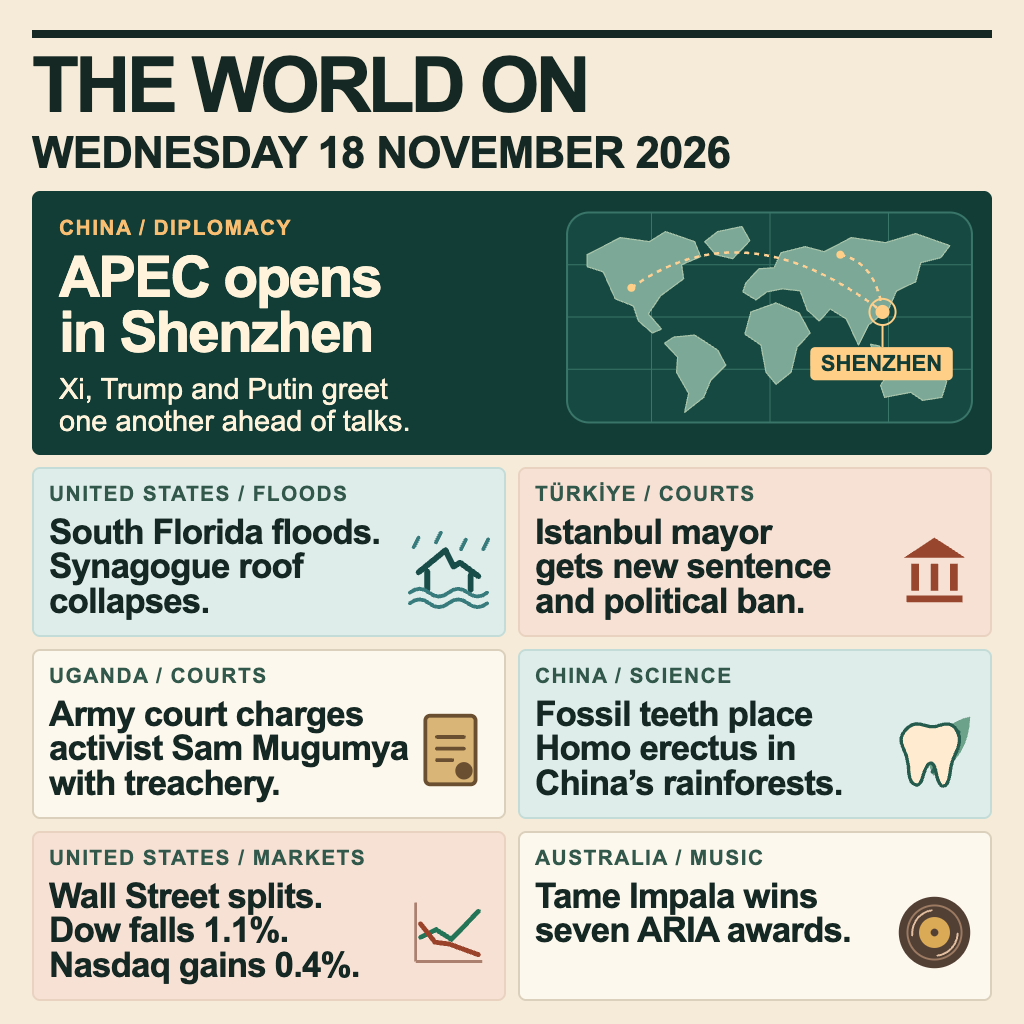
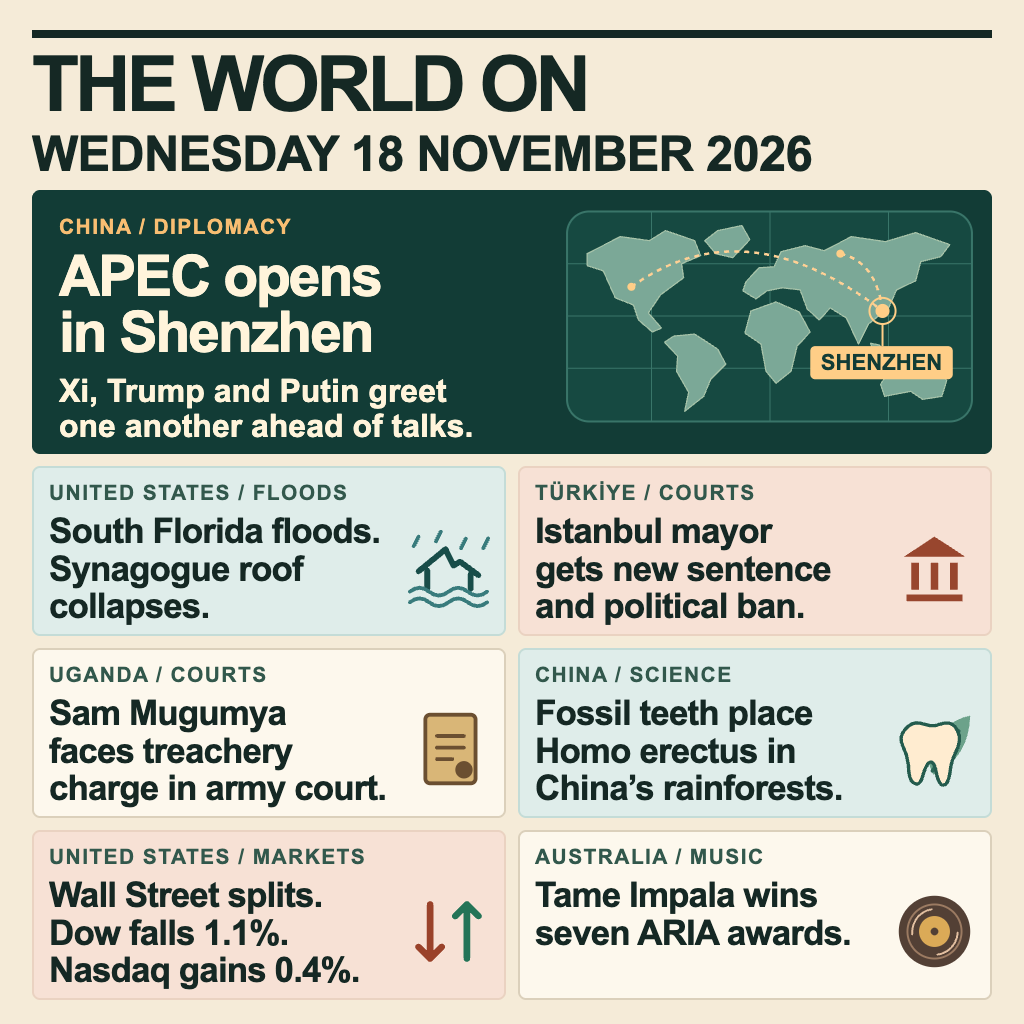
Improve thumbnail legibility and declare MIT license

diff --git a/design/index.html b/design/index.html
@@ -6,19 +6,19 @@
   * { box-sizing: border-box; }
   body { margin: 0; background: #f5ebd8; color: #152824; font-family: Arial, sans-serif; }
   main { width: 1024px; height: 1024px; padding: 30px 32px 32px; }
-  header { border-top: 8px solid #152824; padding: 10px 0 16px; }
+  header { border-top: 8px solid #152824; padding: 9px 0 12px; }
   h1 { font: 900 77px/.98 Arial, sans-serif; letter-spacing: -4px; margin: 0; }
-  h1 span { display: block; font-size: 44px; letter-spacing: -.8px; margin-top: 8px; }
+  h1 span { display: block; font-size: 49px; letter-spacing: -.8px; margin-top: 8px; }
   h2, p { margin: 0; }
   .lead { position: relative; height: 264px; overflow: hidden; background: #123c36; color: #fff4db; padding: 25px 27px; border-radius: 8px; }
   .tag { font-size: 21px; font-weight: 800; letter-spacing: 1.4px; }
   .lead .tag { color: #f8be72; }
   .lead h2 { font-size: 57px; letter-spacing: -2px; line-height: .98; margin: 10px 0 13px; }
-  .lead p:last-of-type { font-size: 29px; line-height: 1.09; }
+  .lead p:last-of-type { font-size: 32px; font-weight: 600; line-height: 1.09; }
   .map { position: absolute; right: 11px; top: 6px; width: 422px; height: 249px; }
   .grid { display: grid; grid-template-columns: 1fr 1fr; grid-auto-rows: 170px; gap: 12px; margin-top: 12px; }
   article { position: relative; border-radius: 8px; padding: 13px 15px; background: #fdf8ed; border: 2px solid #dbd0bb; }
-  article h2 { font-size: 35px; letter-spacing: -.9px; line-height: .99; margin-top: 9px; }
+  article h2 { font-size: 35px; letter-spacing: -.9px; line-height: 1.06; margin-top: 7px; }
   article .tag { color: #32584c; }
   .icon { position: absolute; right: 13px; bottom: 24px; width: 85px; height: 85px; }
   .blue { background: #dfedea; border-color: #c4dcd7; }
@@ -69,7 +69,7 @@
     </article>
     <article>
       <p class="tag">UGANDA / COURTS</p>
-      <h2>Army court charges<br>activist Sam Mugumya<br>with treachery.</h2>
+      <h2>Sam Mugumya<br>faces treachery<br>charge in army court.</h2>
       <svg class="icon" viewBox="0 0 88 88" aria-hidden="true">
         <rect x="20" y="8" width="52" height="71" rx="5" fill="#d9b677" stroke="#6b4f31" stroke-width="4"/>
         <path d="M32 30h28M32 42h28M32 54h16" stroke="#6b4f31" stroke-width="4" stroke-linecap="round"/>
@@ -89,9 +89,10 @@
       <p class="tag">UNITED STATES / MARKETS</p>
       <h2>Wall Street splits.<br>Dow falls 1.1%.<br>Nasdaq gains 0.4%.</h2>
       <svg class="icon" viewBox="0 0 88 88" aria-hidden="true">
-        <path d="M10 74h69M10 74V13" stroke="#ab806e" stroke-width="3"/>
-        <path d="M15 49l16-8 16 10 28-29" fill="none" stroke="#247457" stroke-width="5" stroke-linecap="round"/>
-        <path d="M15 35l15 19 15 2 30 11" fill="none" stroke="#9a422a" stroke-width="5" stroke-linecap="round"/>
+        <g fill="none" stroke-width="7" stroke-linecap="round" stroke-linejoin="round">
+          <path d="M25 16v56m-12-12 12 12 12-12" stroke="#9a422a"/>
+          <path d="M63 72V16M51 28l12-12 12 12" stroke="#247457"/>
+        </g>
       </svg>
     </article>
     <article>
